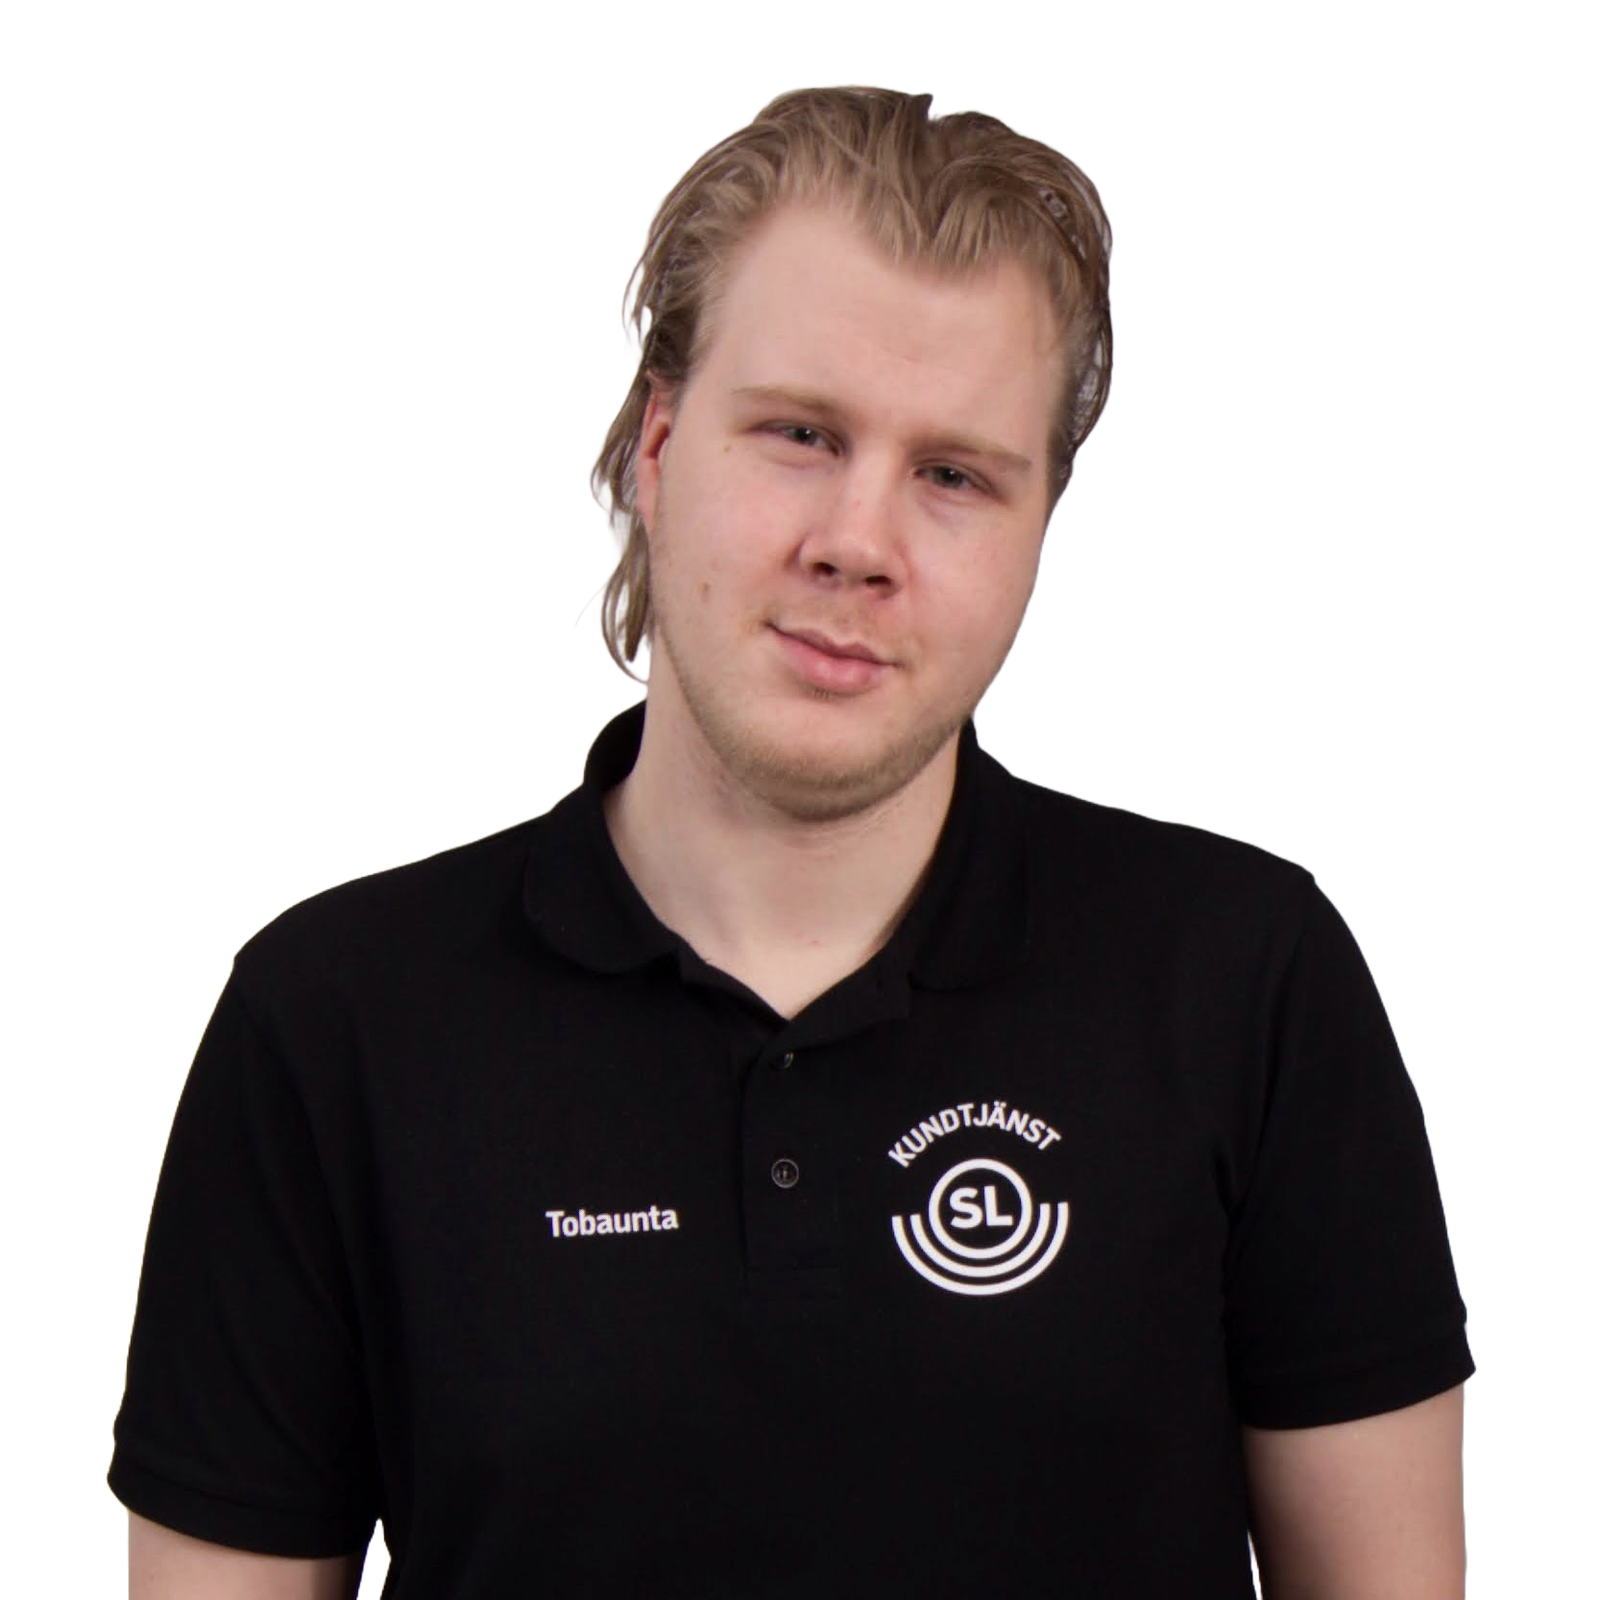
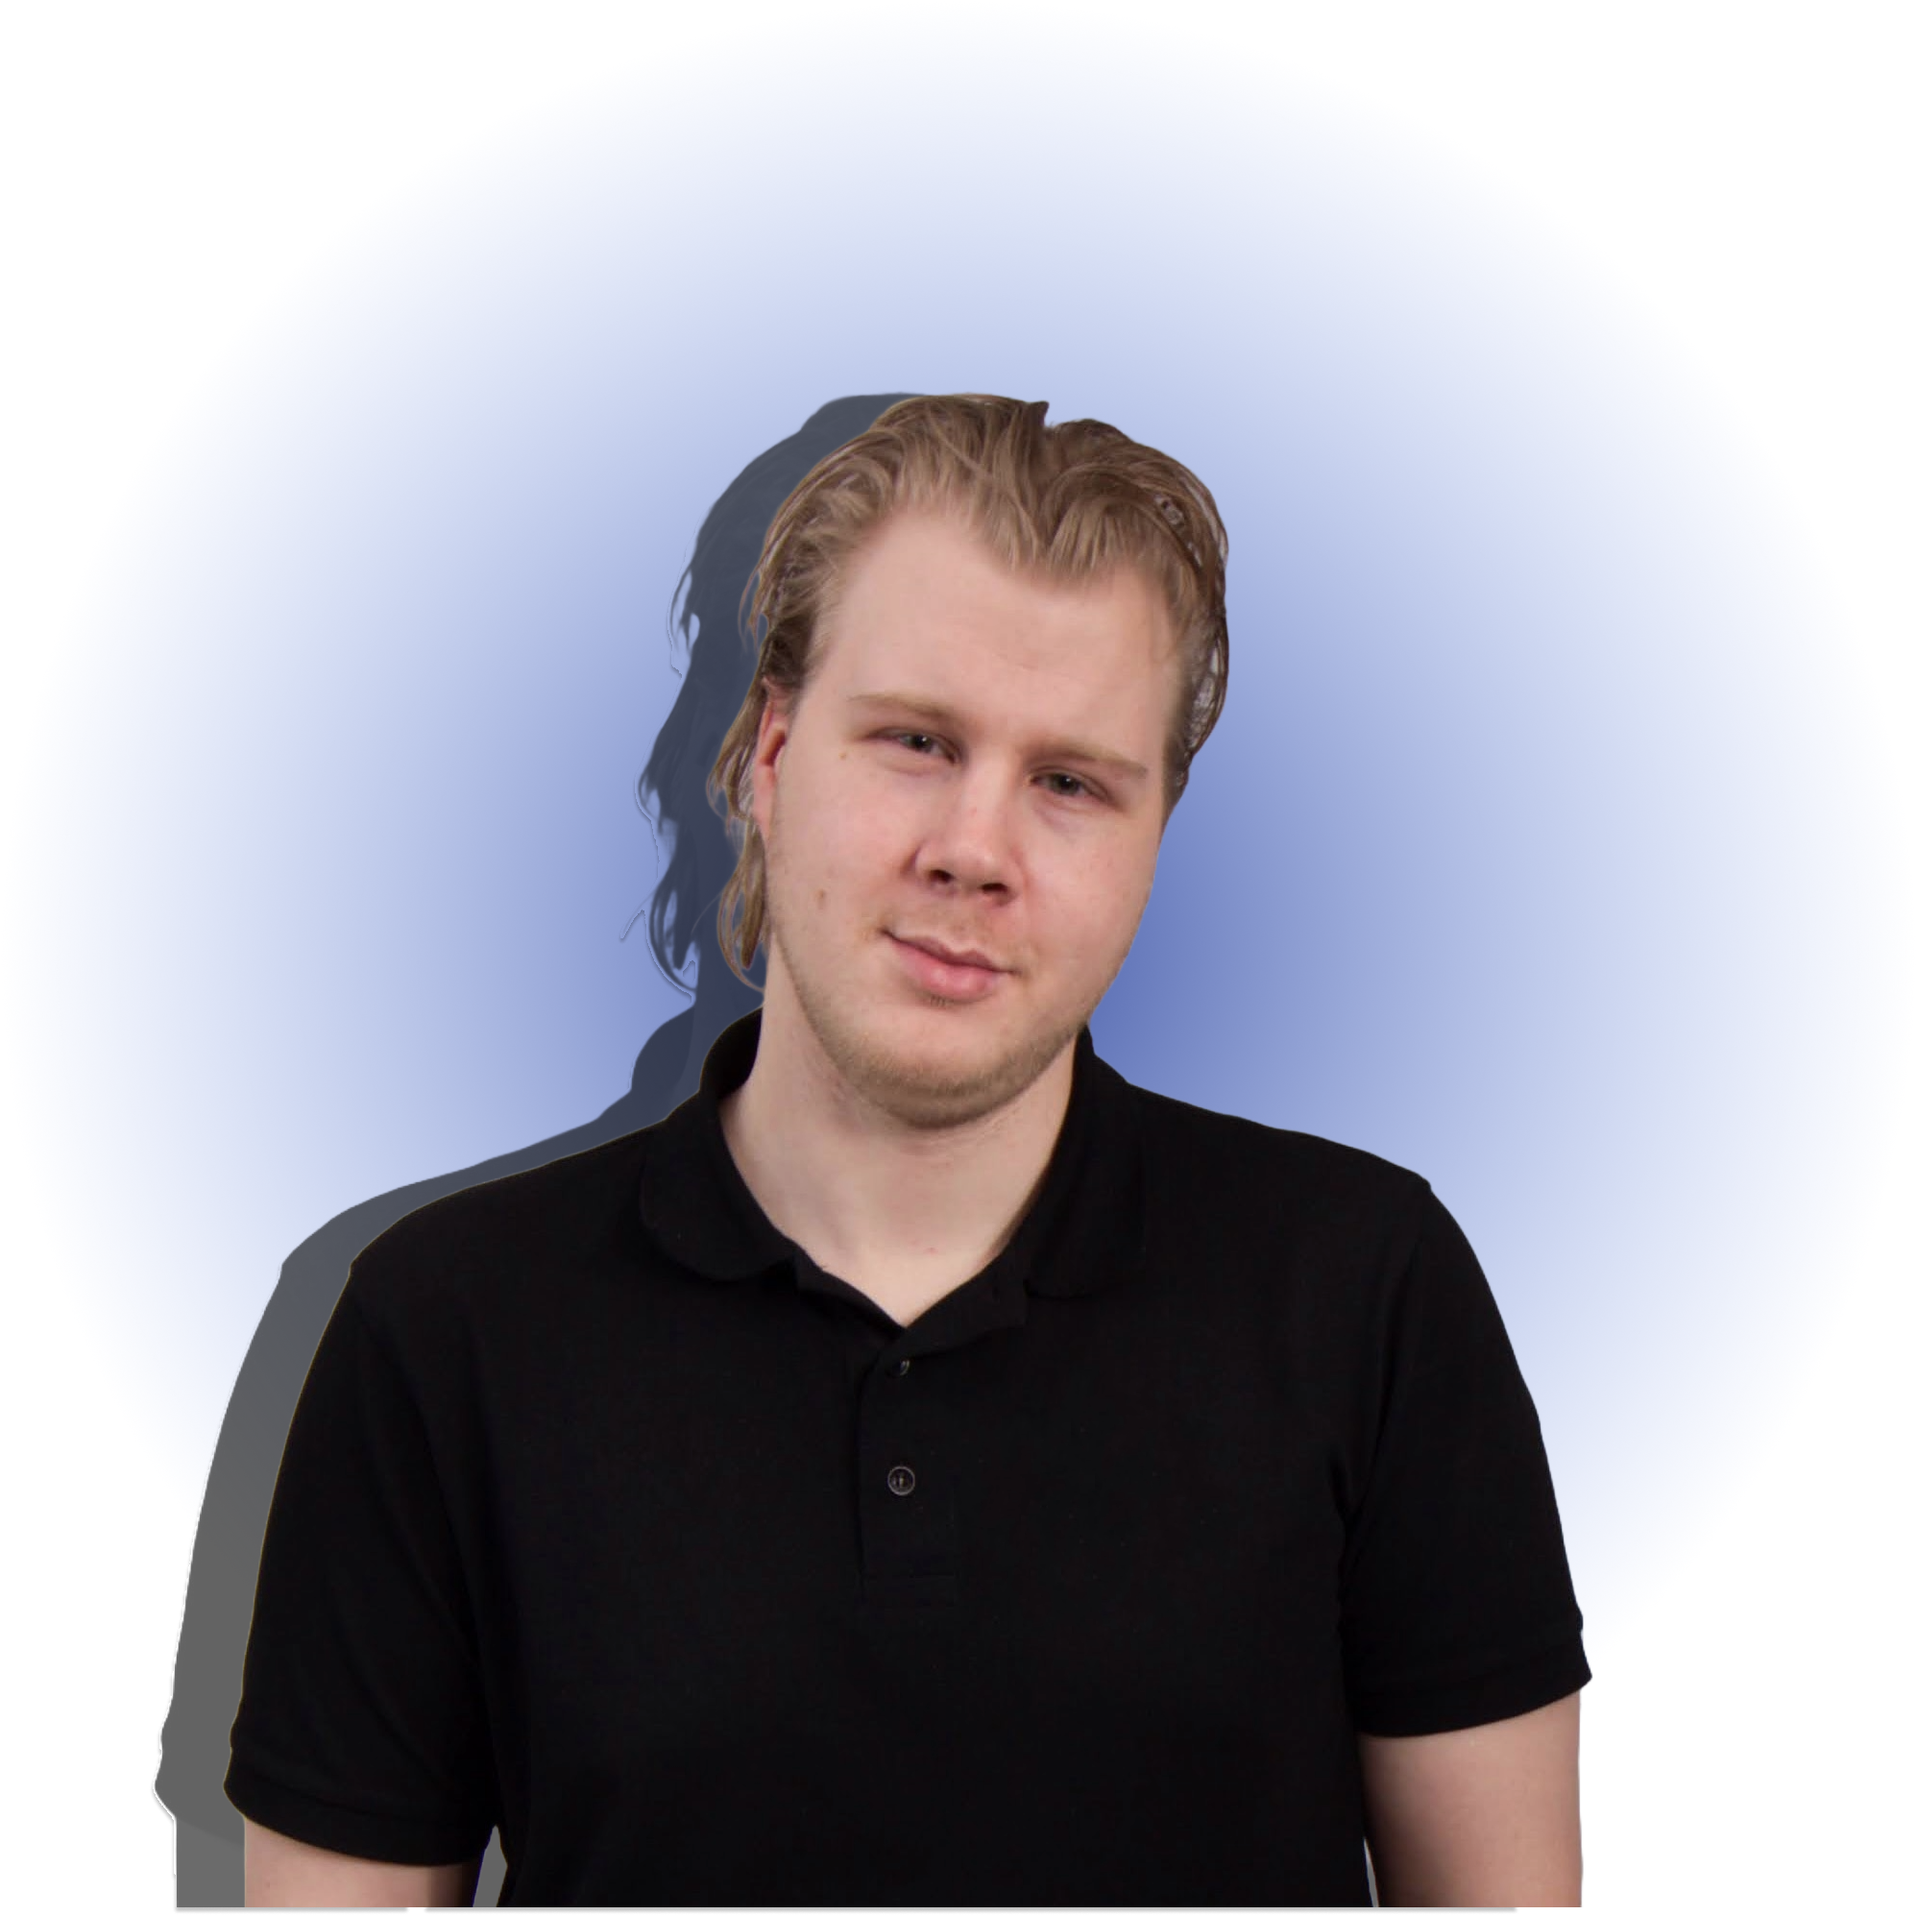
fixed hero, headings and navbar

diff --git a/src/components/Navbar.jsx b/src/components/Navbar.jsx
@@ -15,90 +15,32 @@ import Typography from "@mui/material/Typography";
 import Button from "@mui/material/Button";
 
 export default function Navbar() {
-  const [mobileOpen, setMobileOpen] = React.useState(false);
-
-  const drawerWidth = 240;
-  const navItems = [];
-
-  const handleDrawerToggle = () => {
-    setMobileOpen((prevState) => !prevState);
-  };
-
-  const drawer = (
-    <Box onClick={handleDrawerToggle} sx={{ textAlign: "center" }}>
-      <Typography variant="h6" sx={{ my: 2 }}>
-        Tobaunta Torkelsson
-      </Typography>
-      <Divider />
-      <List>
-        {navItems.map((item) => (
-          <ListItem key={item} disablePadding>
-            <ListItemButton sx={{ textAlign: "center" }}>
-              <ListItemText primary={item} />
-            </ListItemButton>
-          </ListItem>
-        ))}
-      </List>
-    </Box>
-  );
-
   return (
-    <Box sx={{ display: "flex" }}>
+    <Box sx={{ display: { xs: "none", sm: "flex" } }}>
       <CssBaseline />
-      <AppBar component="nav" position="static">
+      <AppBar component="nav">
         <Toolbar>
-          <IconButton
-            color="inherit"
-            aria-label="open drawer"
-            edge="start"
-            onClick={handleDrawerToggle}
-            sx={{ mr: 2, display: { sm: "none" } }}
-          >
-            <MenuIcon />
-          </IconButton>
           <Box
             sx={{
-              display: { xs: "none", sm: "flex" },
-              justifyContent: { xs: "none", sm: "space-between" },
+              display: "flex",
+              justifyContent: "space-between",
               width: "100%",
             }}
           >
-            <Typography
-              variant="h6"
-              component="div"
-              sx={{ display: { xs: "none", sm: "block" } }}
-            >
+            <Typography variant="h6" component="div" sx={{ display: "block" }}>
               Tobaunta Torkelsson
             </Typography>
-            <Box sx={{ display: { xs: "none", sm: "block" } }}>
-              {navItems.map((item) => (
-                <Button key={item} sx={{ color: "#fff" }}>
-                  {item}
-                </Button>
-              ))}
+            <Box>
+              <Button href="#om-mig" sx={{ color: "#fff" }}>
+                OM MIG
+              </Button>
+              <Button href="#projekt" sx={{ color: "#fff" }}>
+                PROJEKT
+              </Button>
             </Box>
           </Box>
         </Toolbar>
       </AppBar>
-      <nav>
-        <Drawer
-          variant="temporary"
-          open={mobileOpen}
-          onClose={handleDrawerToggle}
-          ModalProps={{
-            keepMounted: true, // Better open performance on mobile.
-          }}
-          sx={{
-            display: { xs: "block", sm: "none" },
-            "& .MuiDrawer-paper": {
-              boxSizing: "border-box",
-              width: drawerWidth,
-            },
-          }}
-        >
-          {drawer}
-        </Drawer>
-      </nav>
     </Box>
   );
 }

diff --git a/src/components/Hero.jsx b/src/components/Hero.jsx
@@ -1,0 +1,33 @@
+import { Box, Typography } from "@mui/material";
+
+export default function Hero() {
+  return (
+    <Box
+      id="om-mig"
+      display={"flex"}
+      justifyContent={"center"}
+      alignItems={"center"}
+      sx={{ flexDirection: { md: "row", sm: "column", xs: "column" } }}
+    >
+      <Box
+        component="img"
+        src="/hero-img.png"
+        alt="Hero Image"
+        sx={{ width: { md: "600px", sm: "350px", xs: "280px" } }}
+      />
+      <Box>
+        <Typography variant="h2" component="h2" sx={{ margin: 5 }}>
+          OM MIG
+        </Typography>
+        <Typography variant="p" component="p" sx={{ margin: 5 }}>
+          Med över ett decennium av erfarenhet inom mjukvaruutveckling, har jag
+          kombinerat självständiga projekt med en formell utbildning hos
+          Techover. Under min tid där har jag förfinat mina kunskaper genom att
+          utveckla en rad komplexa applikationer. Exempel på projekt inkluderar
+          en lösenordsgenerator, en integration med Klarna Checkout och en
+          omfattande flagg-applikation.
+        </Typography>
+      </Box>
+    </Box>
+  );
+}

diff --git a/src/App.jsx b/src/App.jsx
@@ -1,6 +1,7 @@
 import * as React from "react";
 import Navbar from "./components/Navbar";
 import Projects from "./components/Projects";
+import Hero from "./components/Hero";
 import { createTheme, ThemeProvider } from "@mui/material";
 import "./App.css";
 
@@ -31,6 +32,7 @@ export default function App() {
     <>
       <ThemeProvider theme={theme}>
         <Navbar />
+        <Hero />
         <Projects />
       </ThemeProvider>
     </>

diff --git a/src/components/Projects.jsx b/src/components/Projects.jsx
@@ -4,9 +4,9 @@ import Project from "./Project";
 export default function Projects() {
   let technologies = "";
   return (
-    <Box>
-      <Typography id="projekt" variant="h3" component="h3" sx={{ margin: 5 }}>
-        Projekt
+    <Box id="projekt">
+      <Typography variant="h2" component="h2" sx={{ margin: 5 }}>
+        PROJEKT
       </Typography>
       <Project
         name="Flag-App"
